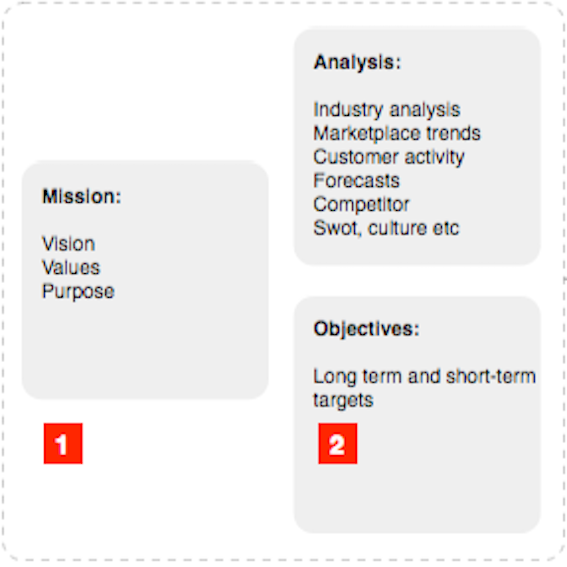
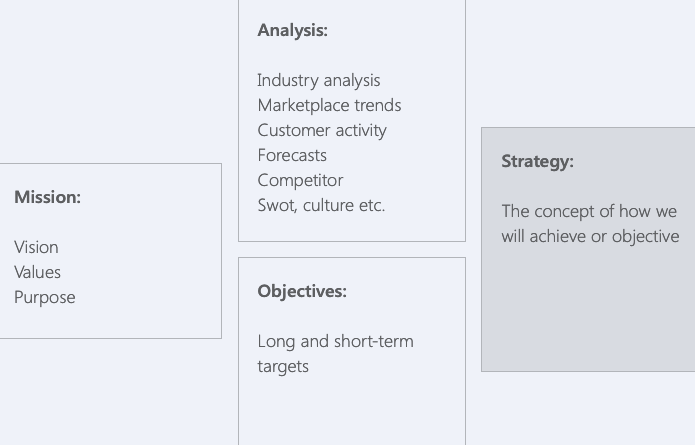
fixed strategy graphic

diff --git a/css23/typography.css b/css23/typography.css
@@ -83,6 +83,7 @@ h1#headTitle {
 /* Default mobile */
 .df-width-two-thirds p.post-intro {width: auto;font-size: 1.33em;}
 .df-width-two-thirds h2, .df-width-two-thirds p {width: auto;}
+article.df-width-two-thirds ul {width: auto;}
 blockquote {
   padding: 0 0 0 1rem;
   margin: 0;
@@ -92,6 +93,7 @@ blockquote {
 /* Desktop */
 @media (min-width: 769px) {
   .df-width-two-thirds h2, .df-width-two-thirds p {width: 66%;}
+  article.df-width-two-thirds ul {width: 66%;}
   blockquote {
     padding: 0.25rem 0 0 1.5rem;
     margin: 0 2em 0 2em;

diff --git a/_posts/2020-03-10-is-strategy-worth-the-cash.md b/_posts/2020-03-10-is-strategy-worth-the-cash.md
@@ -4,6 +4,11 @@ title: "Should I commission more strategy work from agencies?"
 subtitle: "Is strategy worth the cash?"
 # hero_image_alt: "No alt content yet"
 hero_image: /i/strategy_fit_sq.png
+
+categories:
+  - Strategy
+  - Transformation
+  
 tags:
  - Strategy
  - Vision
@@ -32,7 +37,7 @@ Unfortunately, this strategy also had a fatal flaw. Because it was created top d
 
 Now if you ask me, that's a lot of cash (and a lot of time) spent for not a lot of positive outcome. I'm actually looking at my own strategic thinking so I'm not (just) having a bitch and a moan. I am genuinely curious to get a feel for the sustainability of the customer experience strategy industry and learn from the mistakes I made last year so next time this happens we'll get a better result.
 
-![Should I spend more money on strategy](http://donkeyontheedge.com/images/strategy_fit.png)
+![Should I spend more money on strategy](/i/strategy_fit.svg)
 
 Items 1, 2 and 4 in the diagram above make up what you might call the "strategy context" of the brief. I reckon this is where the first agency came a cropper. 
 

diff --git a/_posts/2020-12-18-content-strategy-template.md b/_posts/2020-12-18-content-strategy-template.md
@@ -1,9 +1,17 @@
 ---
 layout: 2023/post
 title: "Content strategy template"
-subtitle: "Customers don't have a clear idea of what they hope to accomplish with their content. Or if they do have a clear idea, it's not written down."
-hero_image_alt: "No alt content yet"
+subtitle: >
+  Customers don't have a clear idea of what they hope to accomplish with their content. Or if they do have a clear idea, it's not written down.
+
+hero_image_alt: >
+  Customers don't have a clear idea of what they hope to accomplish with their content. Or if they do have a clear idea, it's not written down.
+
 hero_image: /i/content-strategy.png
+
+categories:
+  - User research
+  - Transformation
 
 tags:
  - Strategy
